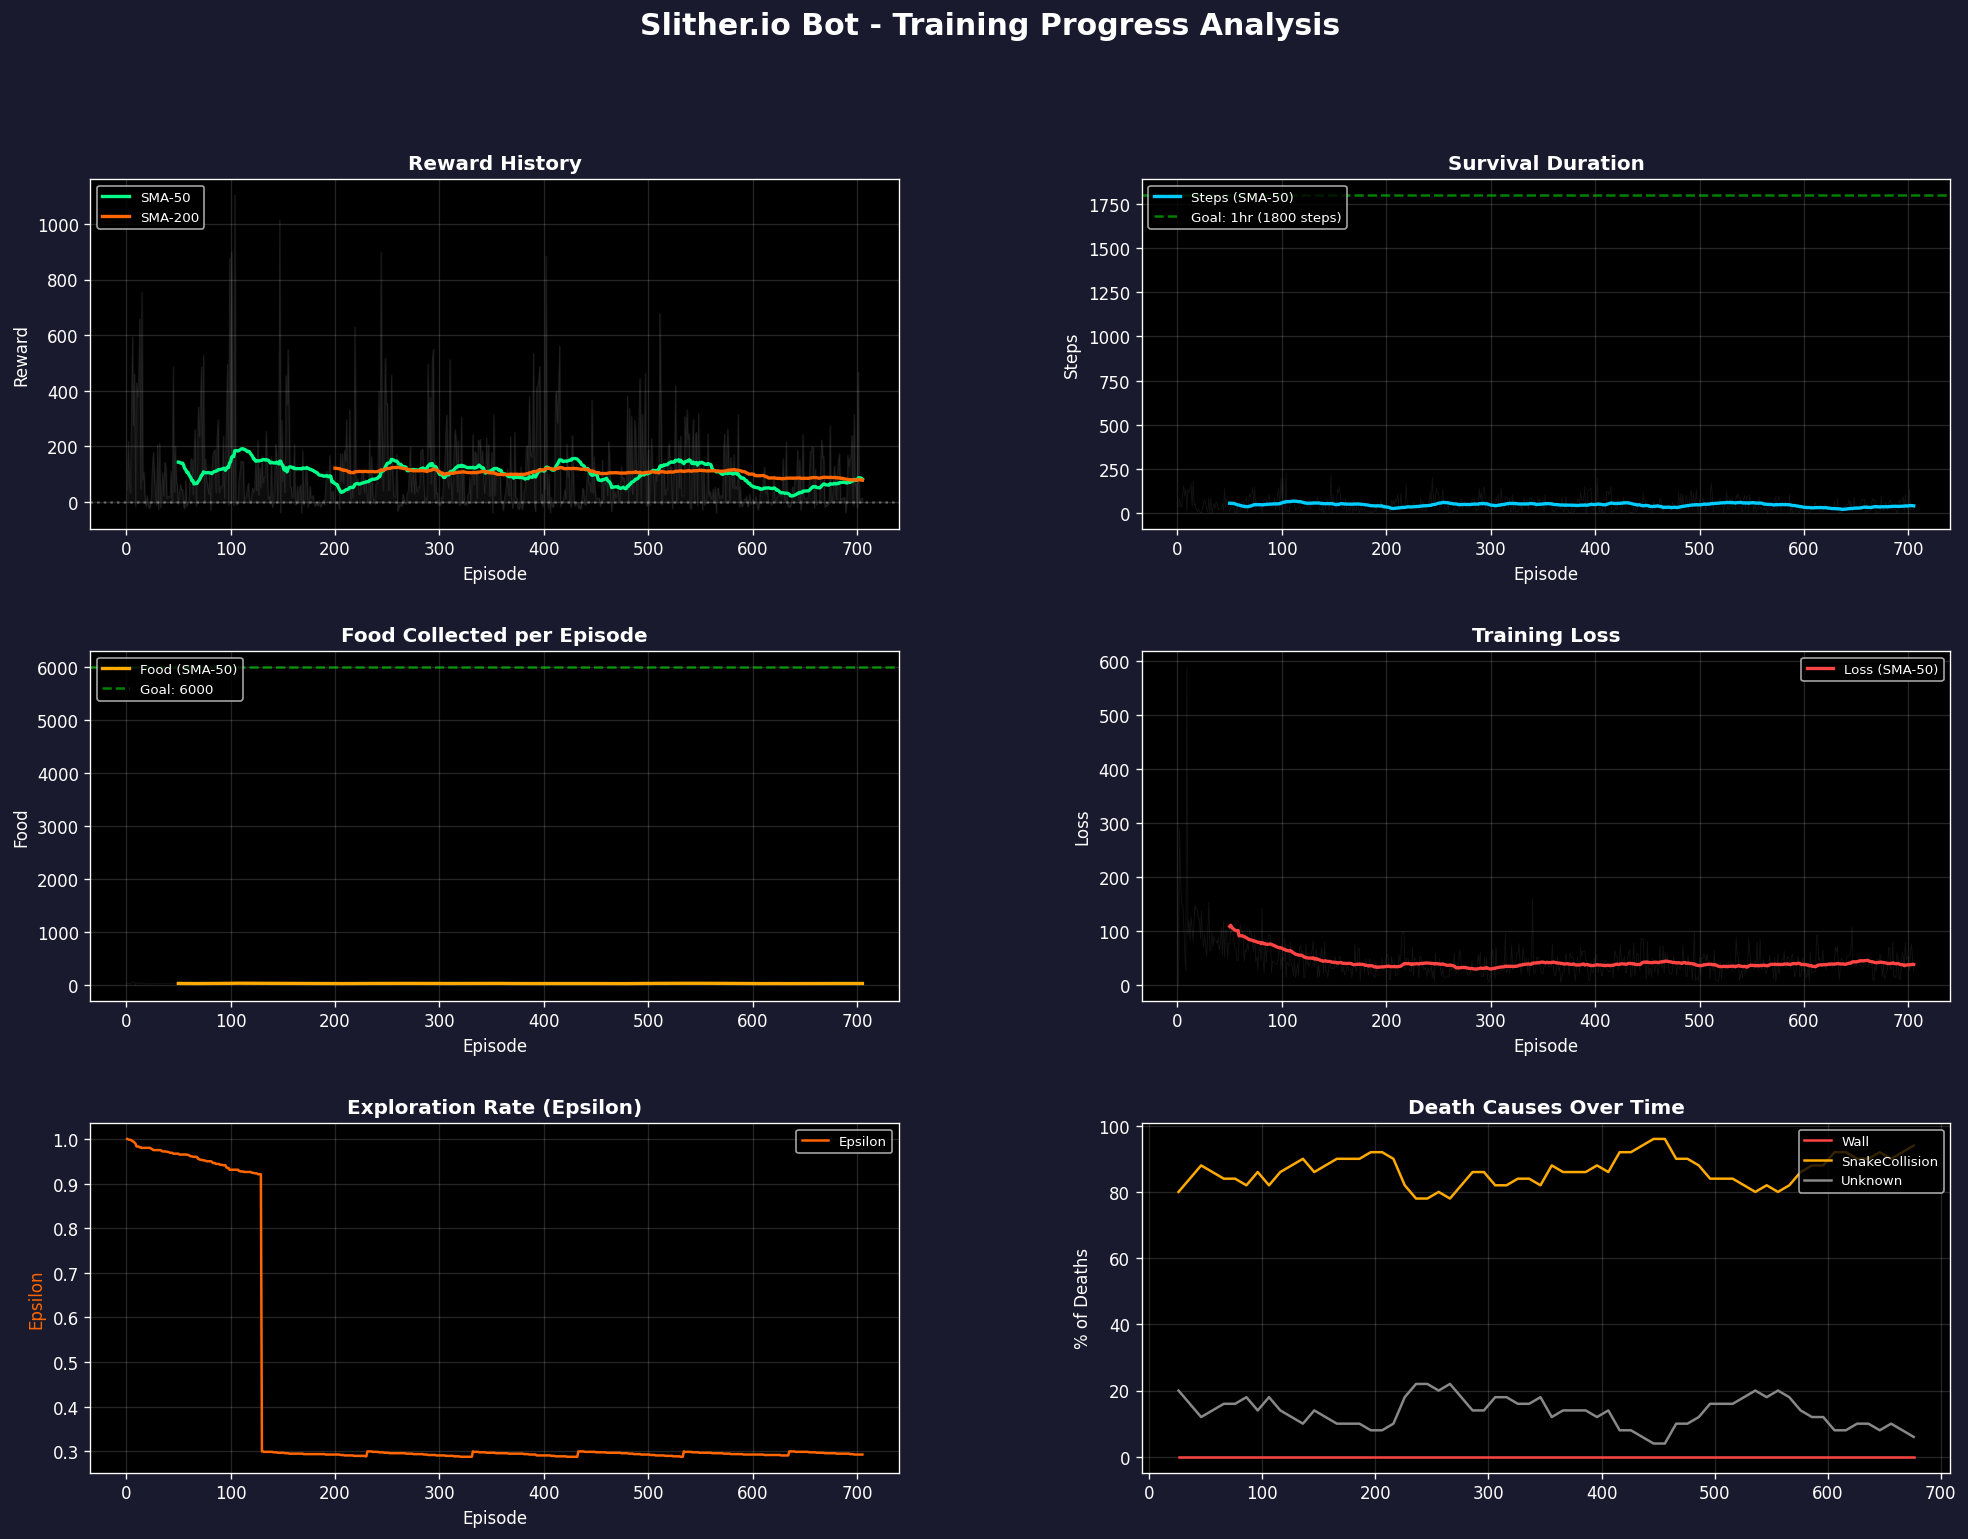
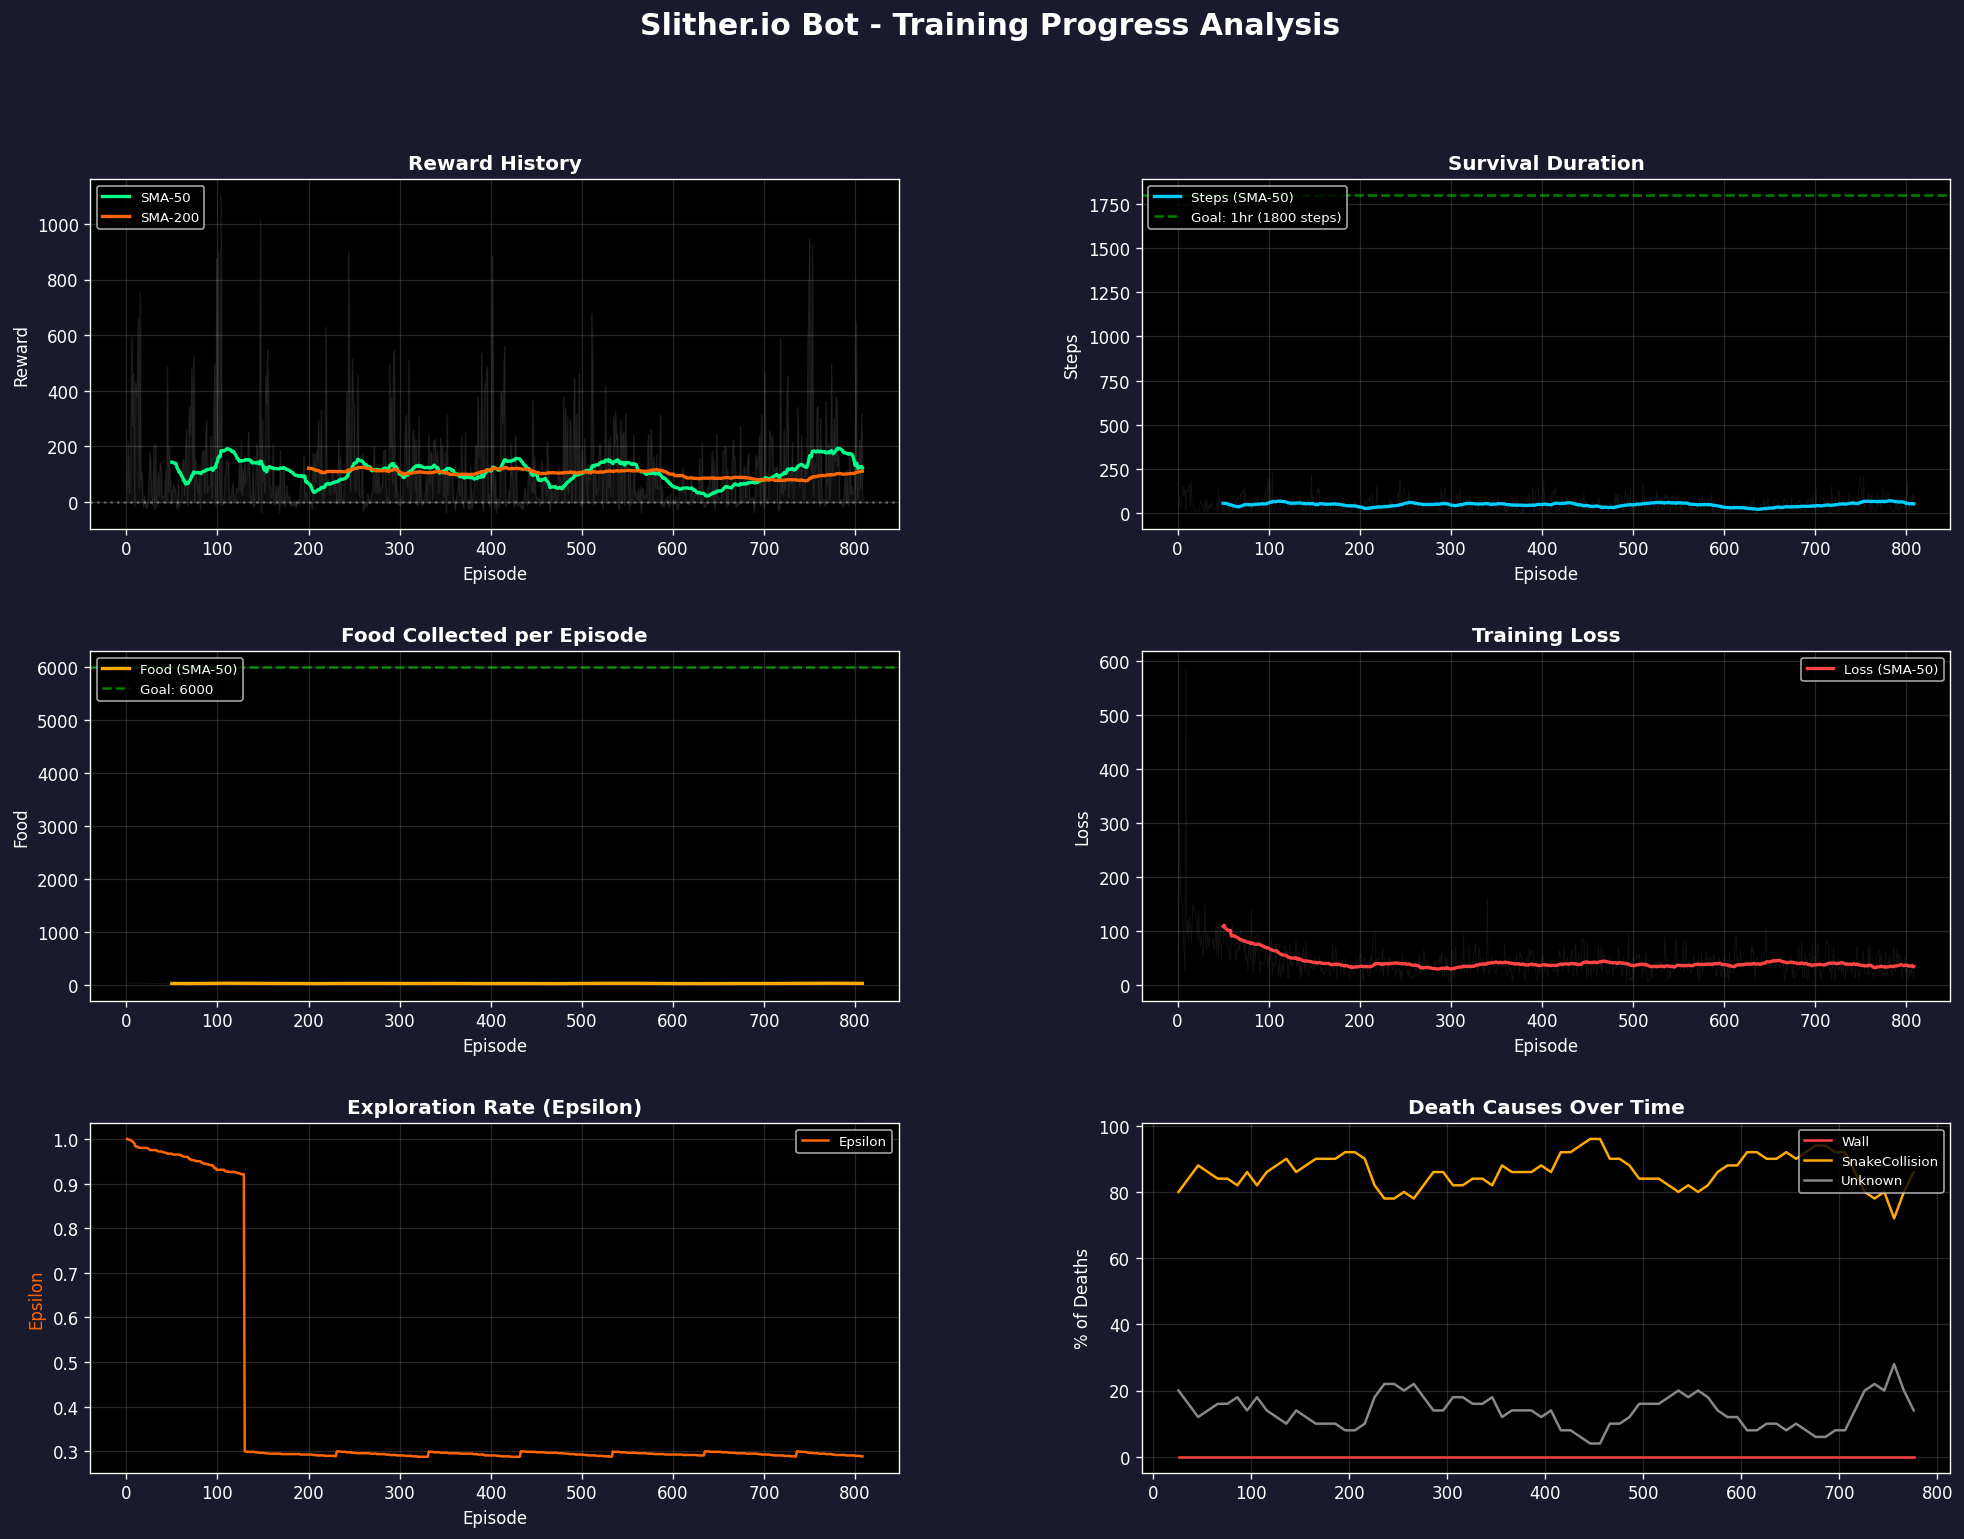
stats

diff --git a/gen2/progress_report.md b/gen2/progress_report.md
@@ -1,7 +1,7 @@
 # Slither.io Bot - Training Progress Report
 
-**Generated:** 2026-02-12 18:30:37  
-**Total Episodes:** 705  
+**Generated:** 2026-02-12 18:40:42  
+**Total Episodes:** 808  
 **Training Sessions:** 2
 
 ## Verdict: NOT LEARNING (Confidence: 35%)
@@ -9,11 +9,11 @@
 **Goal Feasibility:** VERY UNLIKELY (<5% chance)
 
 ### Critical Issues
-- Very short episodes: avg=47 steps (dying too fast)
+- Very short episodes: avg=48 steps (dying too fast)
 
 ### Warnings
-- Rewards flat: change = -30.5 between halves
-- Loss very high (37.67) - training unstable
+- Rewards flat: change = -18.1 between halves
+- Loss very high (33.94) - training unstable
 
 ### Positive Signals
 - Loss decreasing (model converging)
@@ -22,10 +22,10 @@
 
 | Metric | Mean | Std | Min | Max | P50 | P95 |
 |--------|------|-----|-----|-----|-----|-----|
-| Reward | 105.04 | 151.95 | -38.53 | 1104.08 | 50.39 | 408.92 |
-| Steps | 46.70 | 39.02 | 2.00 | 225.00 | 35.00 | 124.80 |
-| Food | 25.30 | 8.20 | 0.00 | 62.00 | 24.00 | 40.00 |
-| Loss | 44.88 | 34.60 | 0.00 | 588.59 | 38.30 | 96.27 |
+| Reward | 111.37 | 157.62 | -38.53 | 1104.08 | 55.36 | 424.47 |
+| Steps | 48.46 | 39.86 | 2.00 | 225.00 | 37.50 | 129.60 |
+| Food | 25.65 | 8.45 | 0.00 | 62.00 | 24.00 | 40.00 |
+| Loss | 43.56 | 33.16 | 0.00 | 588.59 | 37.29 | 92.44 |
 
 ## Goal Progress
 
@@ -39,7 +39,7 @@
 | # | Style | Episodes | Avg Reward | Avg Steps |
 |---|-------|----------|------------|----------|
 | 1 | Unknown | 1-8 | 253.5 | 86 |
-| 2 | Standard (Curriculum) | 9-705 | 103.3 | 46 |
+| 2 | Standard (Curriculum) | 9-808 | 109.9 | 48 |
 
 ## Recommendations
 
